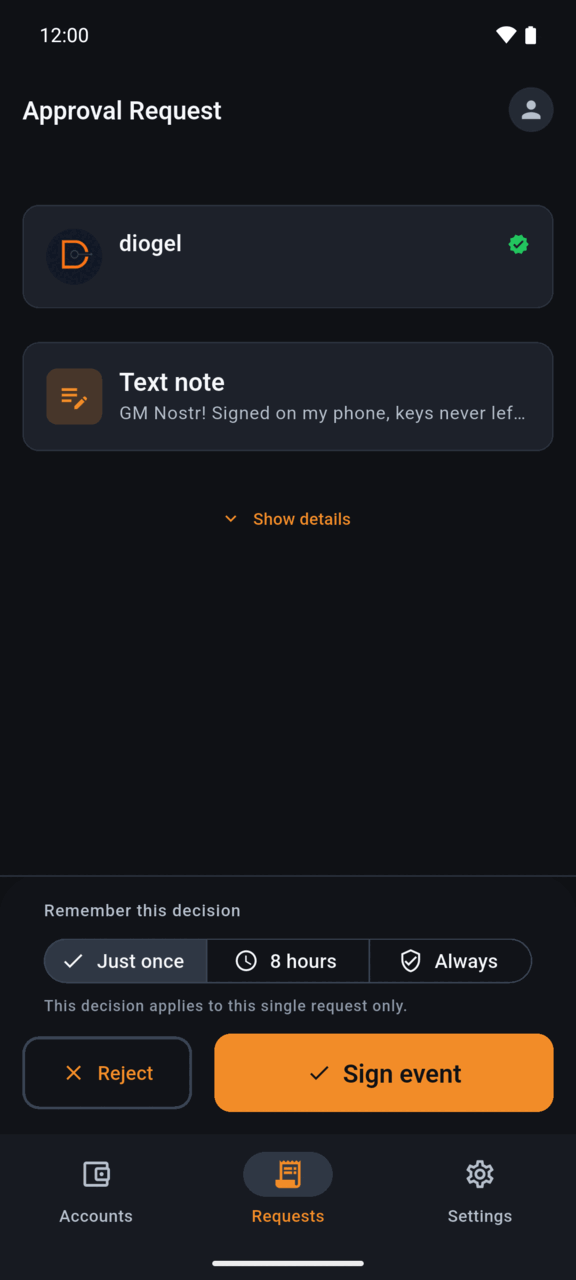
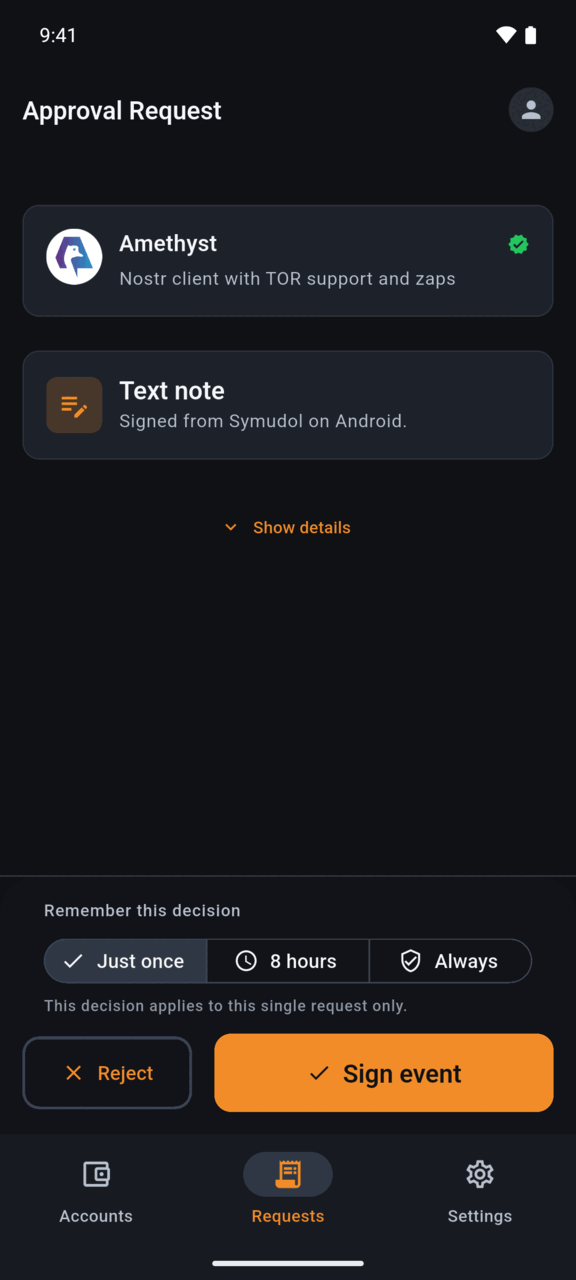
fix(website): use the renamed Symudol screenshots
Replace the pre-rename Symudol shots, which showed Diogel, with web
copies of the recaptured originals. The product page's vault section
now shows the Unlock Vault screen instead of the Accounts screen, the
docs Vault page gains the unlock shot, and the docs Accounts page uses
the new accounts.png.

Fixes #14

diff --git a/content/1.docs/3.symudol/4.accounts.md b/content/1.docs/3.symudol/4.accounts.md
@@ -10,7 +10,7 @@ Symudol is not released yet. This guide describes the current development versio
 
 **Accounts** is the first tab after you unlock. It lists the Nostr identities in your vault under "Manage your Nostr identities".
 
-![The Accounts screen with one active identity](/img/screenshots/symudol/vault.png)
+![The Accounts screen with one active identity](/img/screenshots/symudol/accounts.png)
 
 Each identity shows:
 

diff --git a/content/1.docs/3.symudol/3.vault.md b/content/1.docs/3.symudol/3.vault.md
@@ -30,6 +30,8 @@ Next, add an identity. See [Accounts and profile](/docs/symudol/accounts).
 
 When the vault is locked, Symudol shows **Unlock Vault** and "Enter security PIN to continue".
 
+![The Unlock Vault screen](/img/screenshots/symudol/unlock.png)
+
 1. Enter your 6-digit PIN.
 2. Symudol unlocks as soon as the sixth digit is entered. You can also tap **Unlock Vault**.
 
